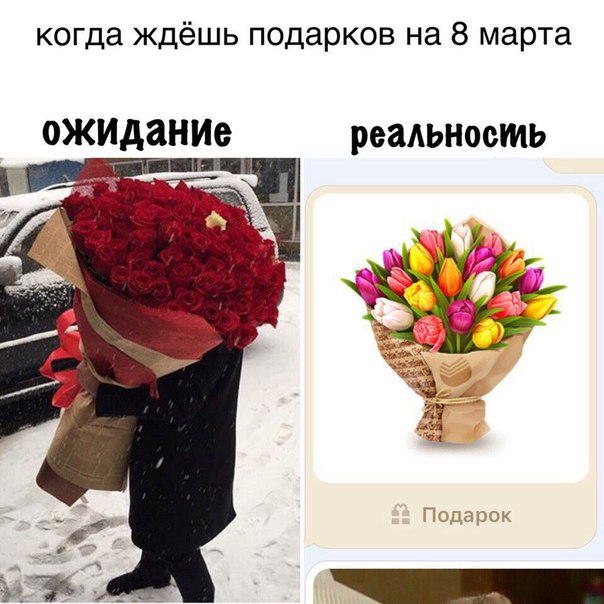
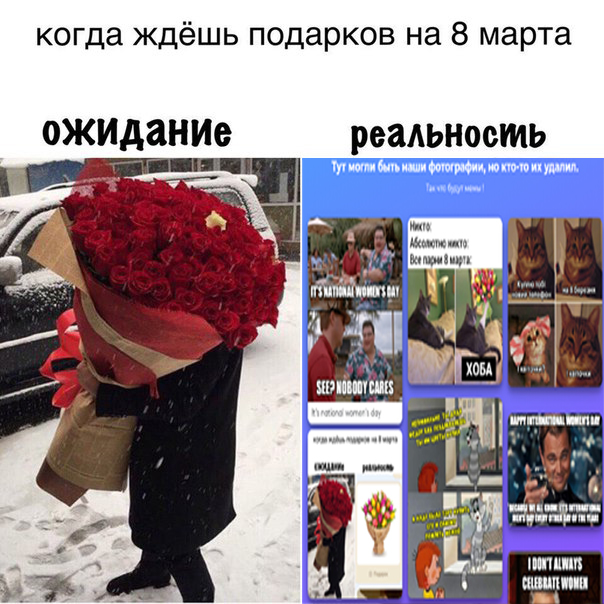
end

diff --git a/Tonea-van-love/css/style.css b/Tonea-van-love/css/style.css
@@ -185,8 +185,15 @@ section {
 .meme:nth-child(9) {
   margin-top: -10%;
 }
+.meme:nth-child(14) {
+  margin-top: -11%;
+}
+.meme:nth-child(15) {
+  margin-top: -8%;
+}
 .meme img {
   border-radius: 15px;
+  border: 3px solid #221eeb;
   box-shadow: rgba(0, 0, 0, 0.25) 0px 14px 28px,
     rgba(0, 0, 0, 0.22) 0px 10px 10px;
   width: 350px;
@@ -214,6 +221,12 @@ section {
   .meme:nth-child(9) {
     margin-top: 0%;
   }
+  .meme:nth-child(14) {
+    margin-top: 0%;
+  }
+  .meme:nth-child(15) {
+    margin-top: 0%;
+  }
 
   .images {
     max-height: 390px;
@@ -239,6 +252,12 @@ section {
   .meme:nth-child(9) {
     margin-top: 0%;
   }
+  .meme:nth-child(14) {
+    margin-top: 0%;
+  }
+  .meme:nth-child(15) {
+    margin-top: 0%;
+  }
 
   .images {
     max-height: 390px;
@@ -262,6 +281,12 @@ section {
     margin-top: 0%;
   }
   .meme:nth-child(9) {
+    margin-top: 0%;
+  }
+  .meme:nth-child(14) {
+    margin-top: 0%;
+  }
+  .meme:nth-child(15) {
     margin-top: 0%;
   }
 
@@ -298,6 +323,12 @@ section {
     margin-top: 0%;
   }
   .meme:nth-child(9) {
+    margin-top: 0%;
+  }
+  .meme:nth-child(14) {
+    margin-top: 0%;
+  }
+  .meme:nth-child(15) {
     margin-top: 0%;
   }
 
@@ -338,6 +369,12 @@ section {
     margin-top: 0%;
   }
   .meme:nth-child(9) {
+    margin-top: 0%;
+  }
+  .meme:nth-child(14) {
+    margin-top: 0%;
+  }
+  .meme:nth-child(15) {
     margin-top: 0%;
   }
 

diff --git a/Tonea-van-love/index.html b/Tonea-van-love/index.html
@@ -82,6 +82,24 @@
                 <div class="meme">
                     <img src="./img/8 marta/8.jpg" alt="">
                 </div>
+                <div class="meme">
+                    <img src="./img/8 marta/11.jpg" alt="">
+                </div>
+                <div class="meme">
+                    <img src="./img/8 marta/12.jpg" alt="">
+                </div>
+                <div class="meme">
+                    <img src="./img/8 marta/14.jpg" alt="">
+                </div>
+                <div class="meme">
+                    <img src="./img/8 marta/13.jpg" alt="">
+                </div>
+                <div class="meme">
+                    <img src="./img/8 marta/15.jpg" alt="">
+                </div>
+                <div class="meme">
+                    <img src="./img/8 marta/16.jpg" alt="">
+                </div>
             </div>
 		</div>
 	</div>
